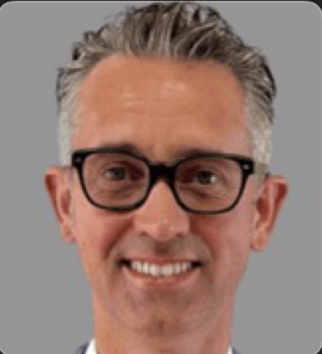
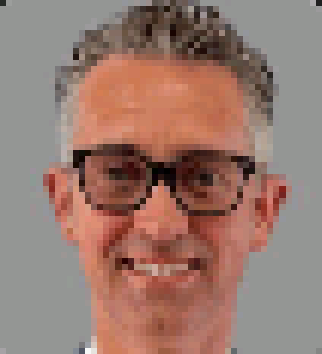
Enhance index2.html with improved semantic structure and accessibility features

diff --git a/index2.html b/index2.html
@@ -1,81 +1,176 @@
-<!DOCTYPE html> <!-- Defines the document type as HTML5 -->
-<html lang="en"> <!-- Root HTML element with English language setting -->
-<head> <!-- Metadata and resource container -->
-  <meta charset="UTF-8" /> <!-- Enables UTF-8 character encoding -->
-  <meta name="viewport" content="width=device-width, initial-scale=1.0" /> <!-- Makes the layout responsive on mobile devices -->
+<!DOCTYPE html> <!-- Defines the document type as HTML5 so browsers render using modern standards -->
+<html lang="en"> <!-- Root HTML element, lang="en" improves accessibility and SEO by telling screen readers and search engines the page language -->
+<head> <!-- Contains metadata and external resources, separated from visible page content -->
+  <meta charset="UTF-8" /> <!-- Enables UTF-8 encoding so special characters display correctly -->
+  <meta name="viewport" content="width=device-width, initial-scale=1.0" /> <!-- Makes layout responsive by matching page width to device width -->
   <meta
     name="description"
     content="Portfolio website for Simon, full stack developer."
-  /> <!-- Search engine description for the website -->
-  <title>Simon | Full Stack Developer</title> <!-- Browser tab title -->
-  <link rel="stylesheet" href="styles.css" /> <!-- Links the external CSS file -->
+  /> <!-- Description used by search engines when displaying the page in results -->
+  <title>Simon | Full Stack Developer</title> <!-- Text shown in browser tab and search engine titles -->
+  <link rel="stylesheet" href="styles.css" /> <!-- Connects external CSS file to style the page -->
 </head>
-<body> <!-- Main visible content of the page -->
-  <header class="site-header"> <!-- Top section containing branding and navigation -->
-    <div class="container"> <!-- Wrapper used to center content and control width -->
-      <h1>Simon</h1> <!-- Main heading of the website -->
-      <p class="tagline">Full Stack Developer</p> <!-- Short subtitle under the heading -->
 
-      <nav aria-label="Main navigation"> <!-- Semantic navigation section -->
-        <ul class="nav-list"> <!-- Unordered list for navigation links -->
-          <li><a href="#about">About</a></li> <!-- Link to About section -->
-          <li><a href="#projects">Projects</a></li> <!-- Link to Projects section -->
-          <li><a href="#contact">Contact</a></li> <!-- Link to Contact section -->
+<body> <!-- Contains all visible page content displayed in the browser -->
+
+  <header class="site-header">
+    <!-- 
+      Semantic <header> used because this is introductory content for the page.
+      It groups branding, identity, and navigation together.
+      Screen readers and search engines recognize this as the top banner area.
+    -->
+
+    <div class="container">
+      <!-- 
+        Non-semantic <div> used intentionally for layout/styling only.
+        Since it has no meaningful content role, a semantic tag is unnecessary here.
+      -->
+
+      <h1>Simon</h1>
+      <!-- 
+        <h1> is the primary heading of the entire page.
+        Important for accessibility, SEO, and logical document structure.
+      -->
+
+      <p class="tagline">Full Stack Developer</p>
+      <!-- 
+        <p> used because this is supporting text, not another heading.
+      -->
+
+      <nav aria-label="Main navigation">
+        <!-- 
+          Semantic <nav> used because this section contains navigation links.
+          Helps screen readers identify navigation regions quickly.
+          aria-label gives extra accessibility context.
+        -->
+
+        <ul class="nav-list">
+          <!-- 
+            <ul> used because navigation links form a grouped list of related items.
+            This improves semantic structure and accessibility.
+          -->
+
+          <li><a href="#about">About</a></li>
+          <!-- <li> represents one item inside the navigation list -->
+
+          <li><a href="#projects">Projects</a></li>
+          <!-- Anchor links jump to page sections -->
+
+          <li><a href="#contact">Contact</a></li>
         </ul>
       </nav>
     </div>
   </header>
 
-  <main> <!-- Main content area -->
-    <section id="about" class="hero-section"> <!-- About section -->
-      <div class="container hero-grid"> <!-- Grid container for layout -->
-        <article> <!-- Article containing introduction text -->
-          <h2>About Me</h2> <!-- Section heading -->
+  <main>
+    <!-- 
+      Semantic <main> used because this contains the central content of the page.
+      Screen readers can jump directly to this area.
+      Only one <main> should exist per page.
+    -->
+
+    <section id="about" class="hero-section">
+      <!-- 
+        Semantic <section> used because this is a standalone thematic grouping.
+        The section has its own heading and purpose.
+      -->
+
+      <div class="container hero-grid">
+        <!-- 
+          Layout wrapper used only for styling and grid positioning.
+        -->
+
+        <article>
+          <!-- 
+            Semantic <article> used because this content could stand alone independently.
+            The introduction/about content is meaningful on its own.
+          -->
+
+          <h2>About Me</h2>
+          <!-- 
+            <h2> creates proper heading hierarchy under the main <h1>.
+          -->
+
           <p>
             I build full stack applications with a focus on performance,
             usability, and clean architecture.
-          </p> <!-- Introductory paragraph -->
+          </p>
+          <!-- Paragraph containing introduction text -->
 
           <p>
             My interests include Electron applications, backend systems,
             Docker infrastructure, and modern web tooling.
-          </p> <!-- Additional background information -->
+          </p>
+          <!-- Additional descriptive paragraph -->
         </article>
 
-        <aside class="profile-card"> <!-- Sidebar content for profile image -->
+        <aside class="profile-card">
+          <!-- 
+            Semantic <aside> used because the image is supporting content,
+            not the primary focus of the section.
+            Asides are commonly used for supplementary information.
+          -->
+
           <img
             src="assets/index-profile.png"
             alt="Portrait of Simon"
-          /> <!-- Profile image with accessible alt text -->
+          />
+          <!-- 
+            <img> displays the profile image.
+            alt text improves accessibility for screen readers and image loading failures.
+          -->
         </aside>
       </div>
     </section>
 
-    <section id="projects" class="projects-section"> <!-- Projects section -->
-      <div class="container"> <!-- Content wrapper -->
-        <h2>Projects</h2> <!-- Projects section heading -->
+    <section id="projects" class="projects-section">
+      <!-- 
+        Separate <section> used because projects are a distinct content area
+        with their own heading and purpose.
+      -->
 
-        <div class="projects-grid"> <!-- Grid layout for project cards -->
-          <article class="project-card"> <!-- Single project card -->
-            <h3>Upcoming Project</h3> <!-- Project title -->
+      <div class="container">
+        <h2>Projects</h2>
+
+        <div class="projects-grid">
+          <!-- 
+            Non-semantic div used for layout only.
+            CSS Grid controls positioning of project cards.
+          -->
+
+          <article class="project-card">
+            <!-- 
+              <article> used because each project is self-contained content.
+              Future projects could independently exist or be reused elsewhere.
+            -->
+
+            <h3>Upcoming Project</h3>
+
             <p>
               This section will be updated as new projects are completed.
-            </p> <!-- Placeholder project description -->
+            </p>
           </article>
         </div>
       </div>
     </section>
 
-    <section id="contact" class="contact-section"> <!-- Contact section -->
-      <div class="container"> <!-- Wrapper for contact content -->
-        <h2>Contact</h2> <!-- Contact section heading -->
+    <section id="contact" class="contact-section">
+      <!-- 
+        Contact information grouped into its own semantic section.
+      -->
+
+      <div class="container">
+        <h2>Contact</h2>
 
         <p>
           Email:
-          <a href="mailto:simon@simontingle.com">
+          <a href="mailto:simon@example.com">
             simon@example.com
           </a>
-        </p> <!-- Clickable email link -->
+        </p>
+        <!-- 
+          mailto: link opens the user's default email application.
+        -->
 
         <p>
           GitHub:
@@ -86,15 +181,25 @@
           >
             github.com/SimonTingle
           </a>
-        </p> <!-- External GitHub profile link -->
+        </p>
+        <!-- 
+          target="_blank" opens link in new tab.
+          rel="noopener noreferrer" improves security and performance for external links.
+        -->
       </div>
     </section>
   </main>
 
-  <footer class="site-footer"> <!-- Footer section -->
-    <div class="container"> <!-- Footer content wrapper -->
-      <p>&copy; 2026 Simon. All rights reserved.</p> <!-- Copyright text -->
+  <footer class="site-footer">
+    <!-- 
+      Semantic <footer> used because this is the closing content of the page.
+      Typically contains copyright, legal info, or secondary links.
+    -->
+
+    <div class="container">
+      <p>&copy; 2026 Simon. All rights reserved.</p>
     </div>
   </footer>
+
 </body>
 </html>
